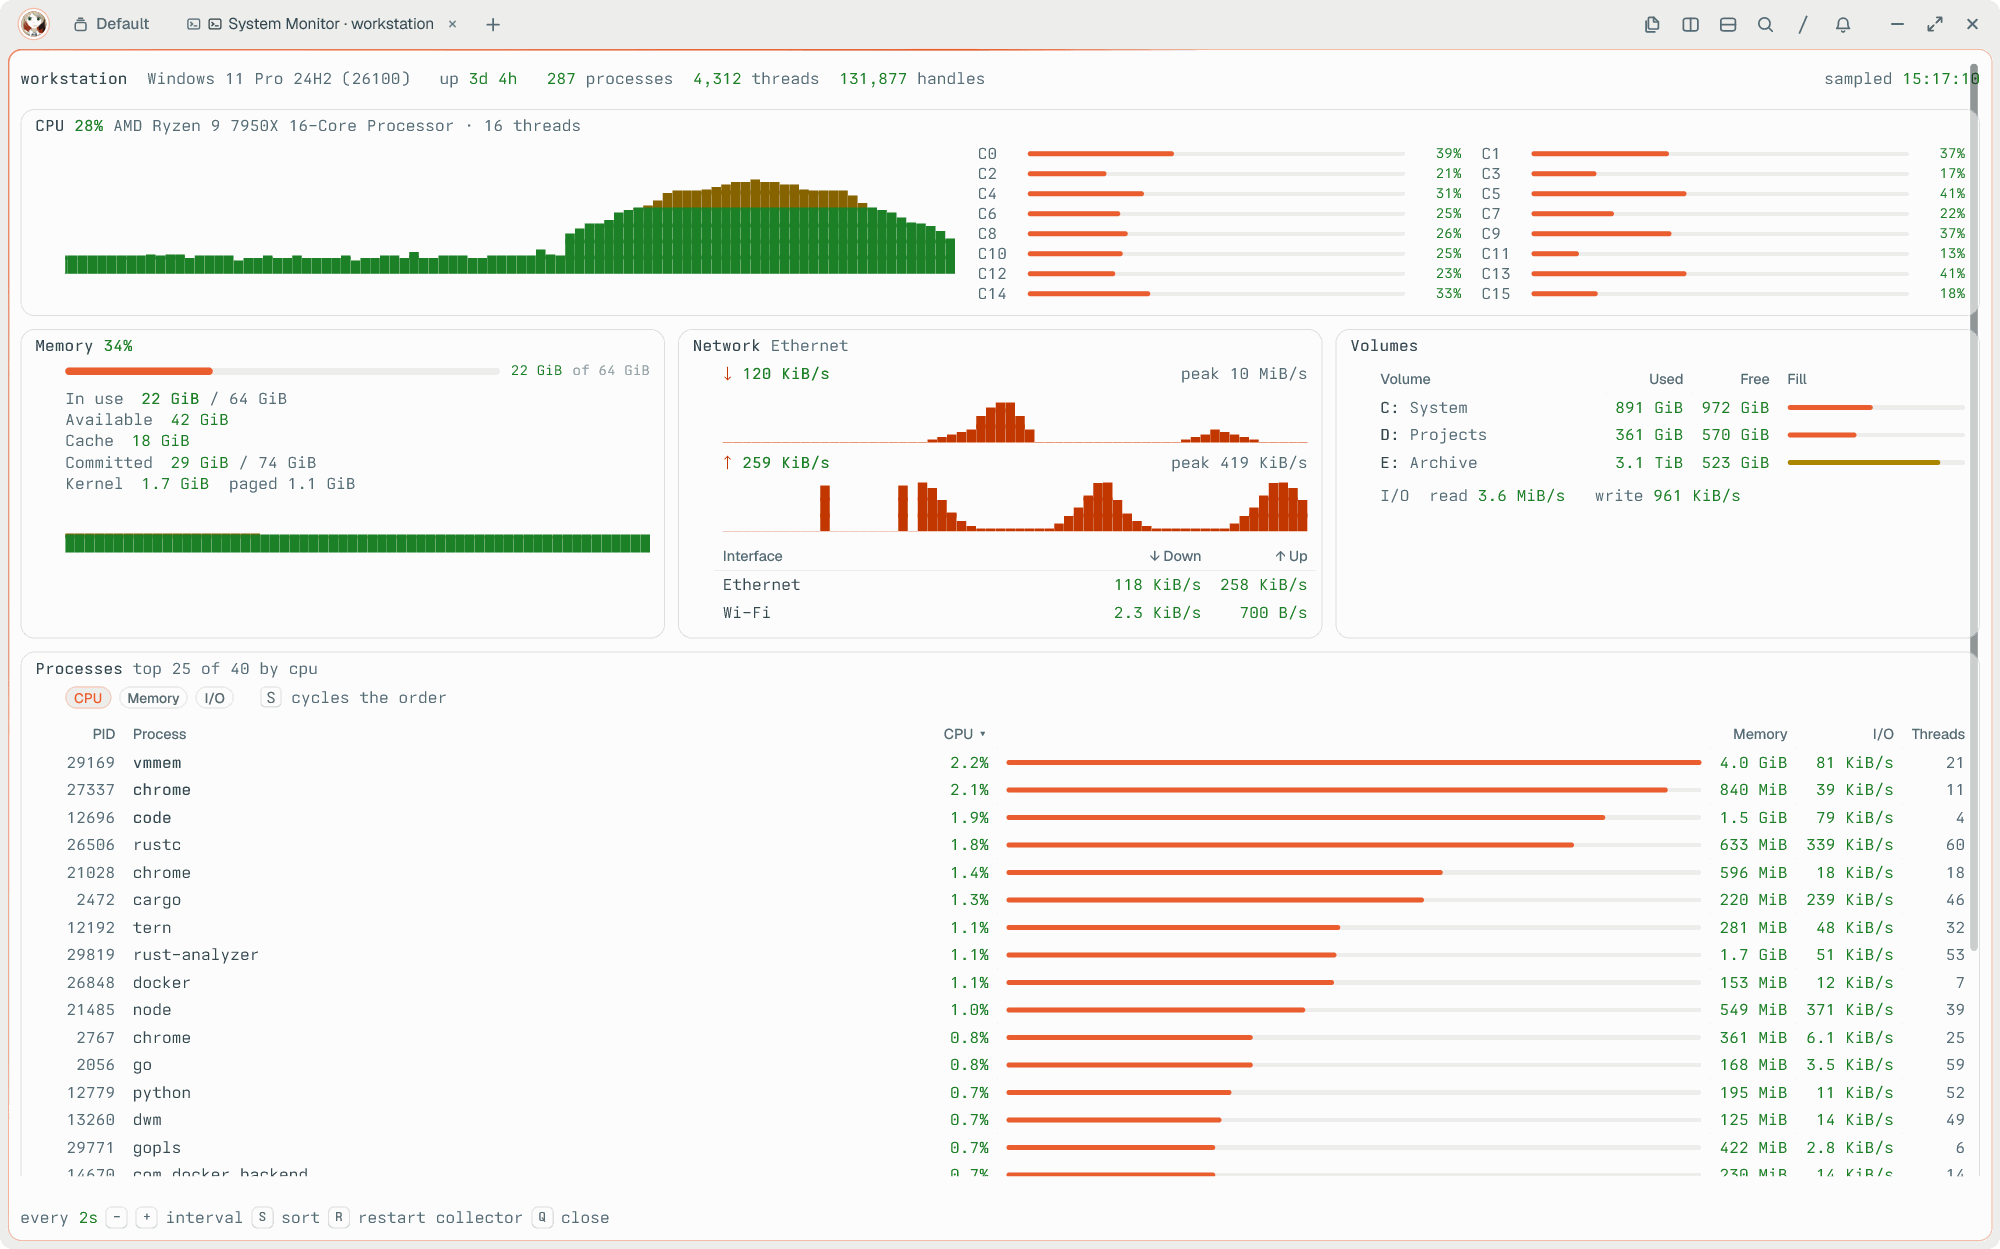
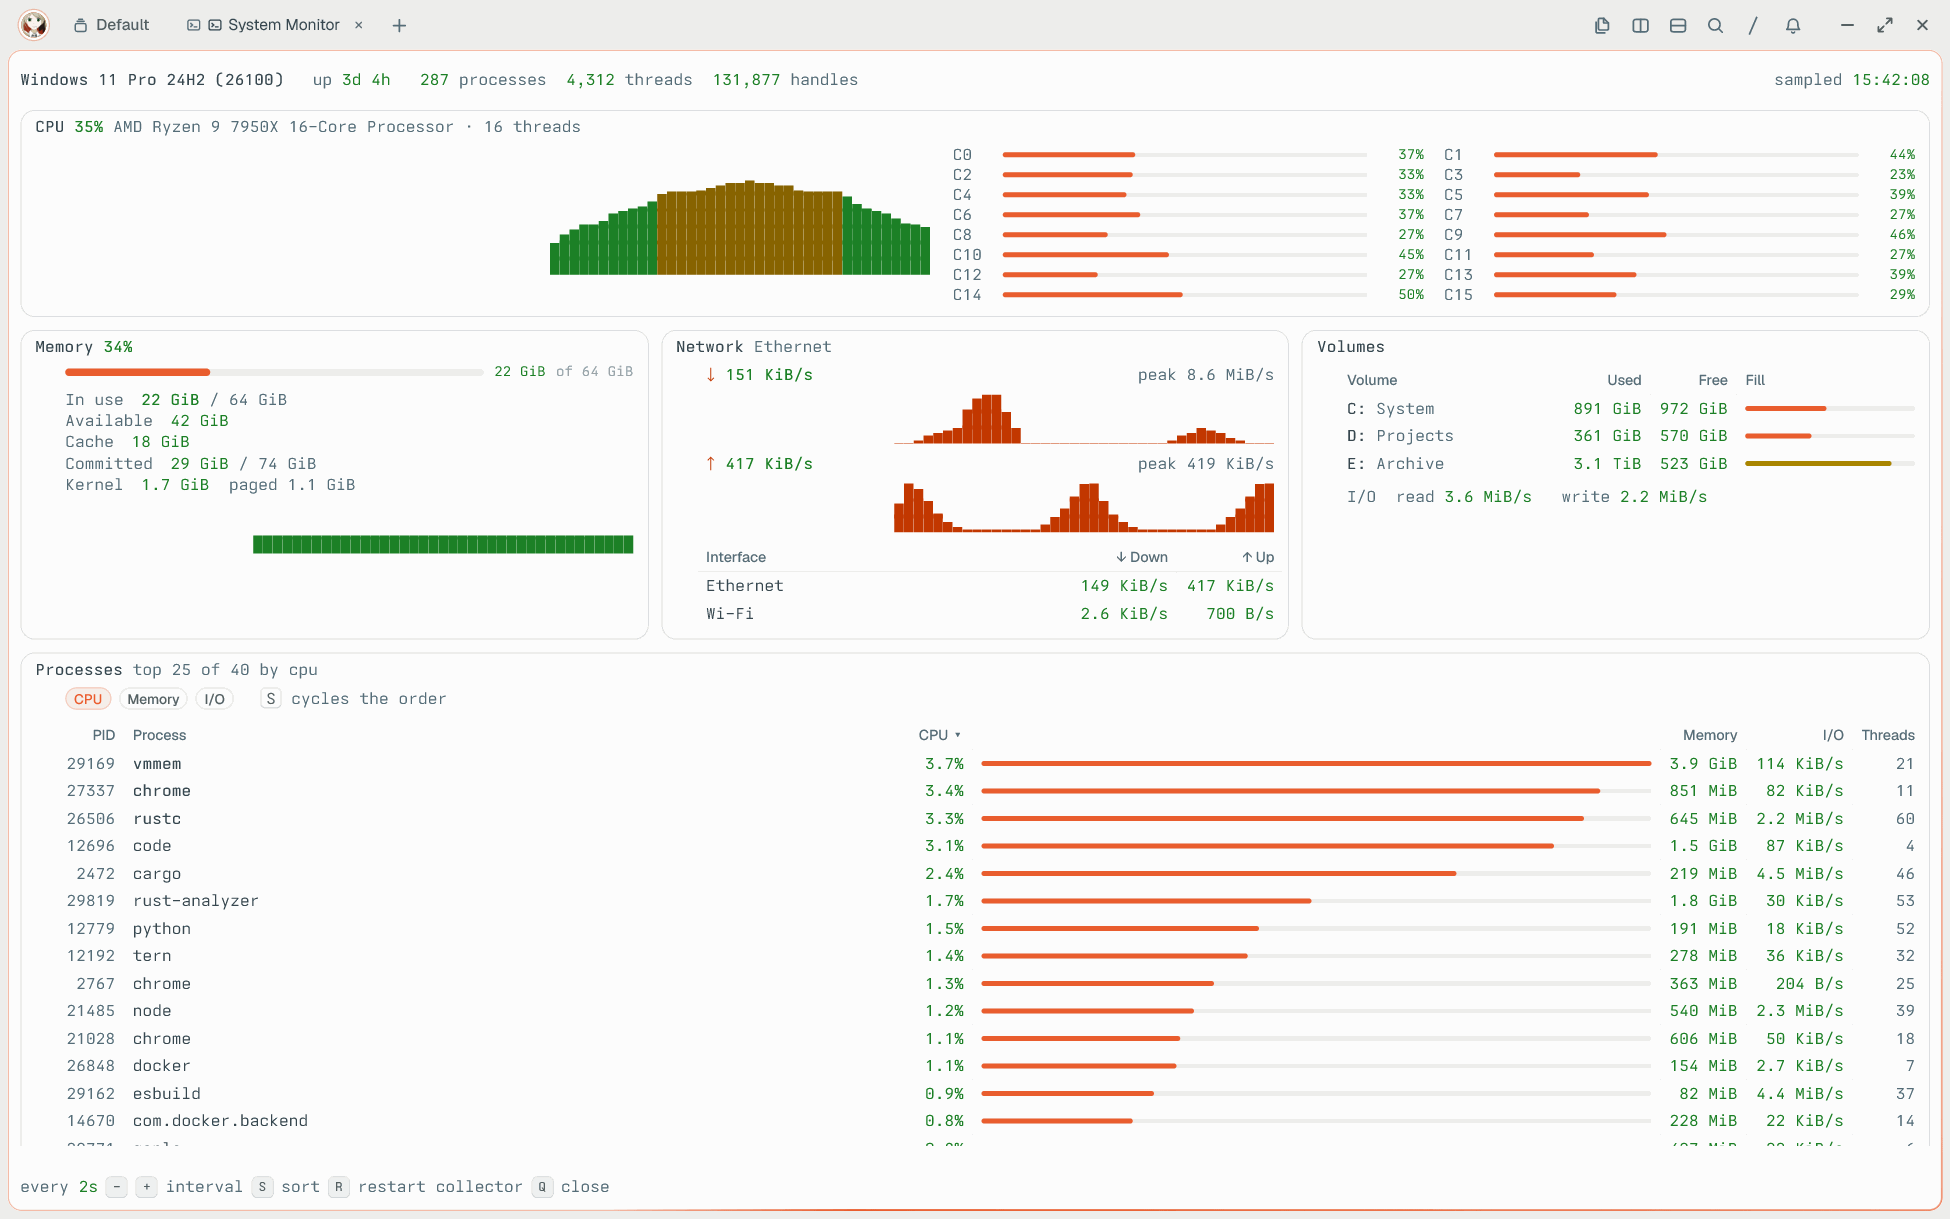
Keep the host name out of the monitor, clear the overlay scrollbar, color graphs by value
- The header and tab title no longer show the machine's name, and the
  collectors no longer read it, so screenshots stay anonymous.
- The content keeps 14 px clear of the pane's overlay scrollbar.
- The header's facts wrap in a narrow pane; the sample time never splits.
- Graph columns take the tone their value earns, as the meters do, instead
  of a tone per row (a 3-row graph turned amber at 34%).
- New README screenshot.

diff --git a/sysmon.css b/sysmon.css
@@ -14,6 +14,13 @@
 		font-variant-numeric: tabular-nums;
 	}
 
+	/* The pane scrolls with an overlay scrollbar that paints over whatever is
+	   under it: keep the right edge clear of it. */
+	[data-role='sysmon.main'] {
+		padding-right: 14px;
+		box-sizing: border-box;
+	}
+
 	/* The dashboard: CPU and processes take a full row; memory, network and
 	   volumes share a row three, two or one at a time as the pane narrows. */
 	.sm-grid {
@@ -61,8 +68,9 @@
 	}
 
 	/* Block graphs: rows touch so the columns read as solid bars, and each row
-	   is anchored right, so a narrow pane clips the oldest samples. Each row is
-	   one tone, the same token the matching text uses. */
+	   is anchored right, so a narrow pane clips the oldest samples. Each run of
+	   columns is a span in the tone its values earned, the same tokens the
+	   matching meters and text use. */
 	.sm-graph {
 		display: flex;
 		flex-direction: column;
@@ -75,9 +83,9 @@
 		white-space: pre;
 		line-height: 1;
 	}
-	.sm-gl.ok { color: var(--sf-c-success); }
-	.sm-gl.warn { color: var(--sf-c-warning); }
-	.sm-gl.bad { color: var(--sf-c-error); }
-	.sm-gl.info { color: var(--sf-c-info); }
-	.sm-gl.acc { color: var(--sf-c-accent); }
+	.sm-gl > .ok { color: var(--sf-c-success); }
+	.sm-gl > .warn { color: var(--sf-c-warning); }
+	.sm-gl > .bad { color: var(--sf-c-error); }
+	.sm-gl > .info { color: var(--sf-c-info); }
+	.sm-gl > .acc { color: var(--sf-c-accent); }
 }

diff --git a/collector.c b/collector.c
@@ -279,7 +279,7 @@ static void prev_reset(PrevTable *t, size_t count) {
 	memset(t->slots, 0, cap * sizeof(Prev));
 }
 
-static char host[256], os_name[256], cpu_name[256];
+static char os_name[256], cpu_name[256];
 static int ncores;
 static double up_s;
 
@@ -384,7 +384,6 @@ static void describe(void) {
 	page_size = sysconf(_SC_PAGESIZE);
 	if (clk_tck <= 0) clk_tck = 100;
 	if (page_size <= 0) page_size = 4096;
-	if (gethostname(host, sizeof host - 1) != 0) strcpy(host, "linux");
 
 	struct utsname u;
 	char kernel[128] = "";
@@ -733,9 +732,6 @@ static void describe(void) {
 	host_port = mach_host_self();
 	mach_timebase_info_data_t tb;
 	if (mach_timebase_info(&tb) == 0 && tb.denom) ns_per_tick = (double)tb.numer / tb.denom;
-	if (gethostname(host, sizeof host - 1) != 0) strcpy(host, "mac");
-	char *dot = strstr(host, ".local");
-	if (dot && dot[6] == 0) *dot = 0;
 	char ver[64], build[64];
 	sysctl_str("kern.osproductversion", ver, sizeof ver);
 	sysctl_str("kern.osversion", build, sizeof build);
@@ -1007,8 +1003,6 @@ static void write_snapshot(const char *path, int interval) {
 	js_u64((uint64_t)wall_ms());
 	js_put(",\"interval\":");
 	js_u64((uint64_t)interval);
-	js_put(",\"host\":");
-	js_str(host);
 	js_put(",\"os\":");
 	js_str(os_name);
 	js_put(",\"cpuName\":");

diff --git a/collector.cs b/collector.cs
@@ -126,7 +126,6 @@ namespace TernSysmon
         static readonly CultureInfo Inv = CultureInfo.InvariantCulture;
         static readonly Stopwatch Clock = Stopwatch.StartNew();
 
-        static string host;
         static string os;
         static string cpuName;
         static int cores;
@@ -230,7 +229,6 @@ namespace TernSysmon
 
         static void Describe()
         {
-            host = Environment.MachineName;
             cores = Environment.ProcessorCount;
             os = "Windows";
             cpuName = "";
@@ -532,7 +530,6 @@ namespace TernSysmon
             sb.Append("{\"v\":1,\"seq\":").Append(seq.ToString(Inv));
             sb.Append(",\"at\":").Append(((long)(DateTime.UtcNow - new DateTime(1970, 1, 1, 0, 0, 0, DateTimeKind.Utc)).TotalMilliseconds).ToString(Inv));
             sb.Append(",\"interval\":").Append(interval.ToString(Inv));
-            sb.Append(",\"host\":"); Str(sb, host);
             sb.Append(",\"os\":"); Str(sb, os);
             sb.Append(",\"cpuName\":"); Str(sb, cpuName);
             sb.Append(",\"up\":").Append((Native.GetTickCount64() / 1000).ToString(Inv));

diff --git a/ci/validate.py b/ci/validate.py
@@ -23,9 +23,11 @@ def fail(msg):
 
 
 def check_snapshot(s):
-    for key in ("v", "seq", "at", "interval", "host", "os", "cpuName", "up", "cpu", "mem", "io", "disk", "net", "proc"):
+    for key in ("v", "seq", "at", "interval", "os", "cpuName", "up", "cpu", "mem", "io", "disk", "net", "proc"):
         if key not in s:
             fail("snapshot lacks %r" % key)
+    if "host" in s:
+        fail("snapshot carries the host name; it must stay anonymous")
     if s["v"] != 1:
         fail("unknown version %r" % s["v"])
     cores = s["cpu"]["cores"]
@@ -111,7 +113,7 @@ def main():
     one_core = 100.0 / cores
     procs = last["proc"]
     spin = next((p for p in procs if p[0] == spinner_pid), None)
-    print("host=%r os=%r cpu=%r" % (last["host"], last["os"], last["cpuName"]))
+    print("os=%r cpu=%r" % (last["os"], last["cpuName"]))
     print("cores=%d total=%.2f%% mem avail/total=%d/%d procs=%d snapshots=%d" % (
         cores, last["cpu"]["total"], last["mem"]["avail"], last["mem"]["total"], len(procs), len(seqs)))
     print("mem=%r" % last["mem"])

diff --git a/README.md b/README.md
@@ -49,7 +49,7 @@ the plugin there too (`tern plugin install …` in a pane on that host).
 
 | Card | Shows |
 | --- | --- |
-| Header | host, OS and version, uptime, processes, threads, handles (Windows) or open files, last sample time |
+| Header | OS and version, uptime, processes, threads, handles (Windows) or open files, last sample time. No host name, so screenshots stay anonymous |
 | CPU | total, per-core meters, a fixed-scale 0–100 % history graph |
 | Memory | in use, available, cache; committed and kernel pools (Windows), swap and kernel (Linux), swap and wired (macOS); a history graph |
 | Network | total down/up with auto-scaled graphs and their peaks, the busy interfaces |
